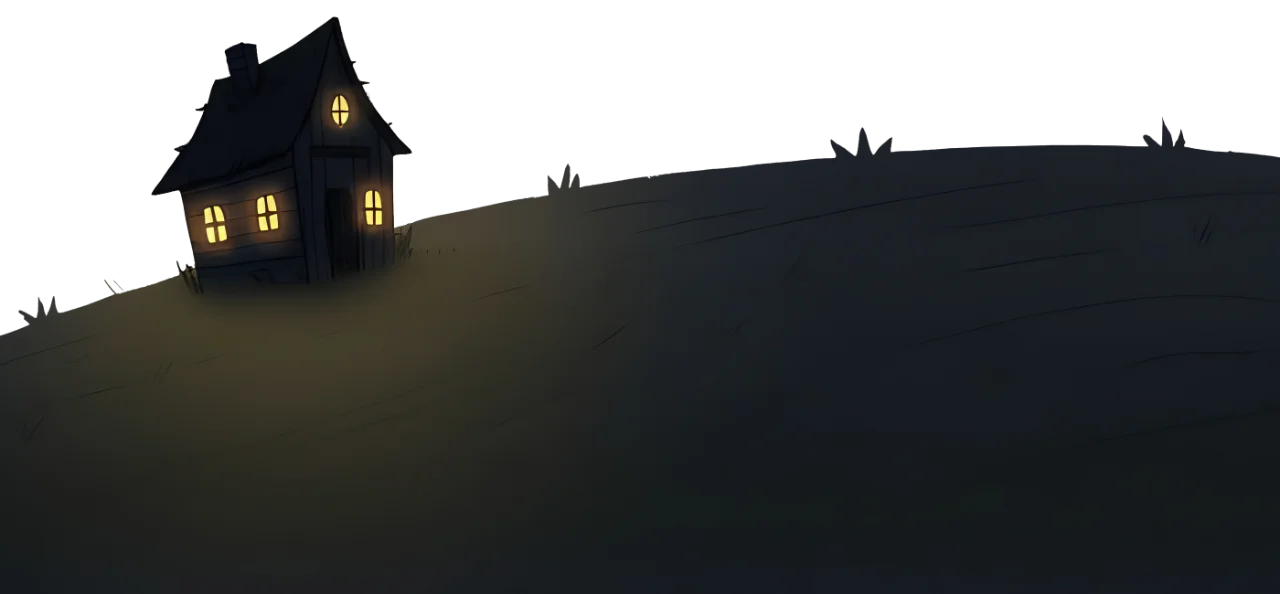
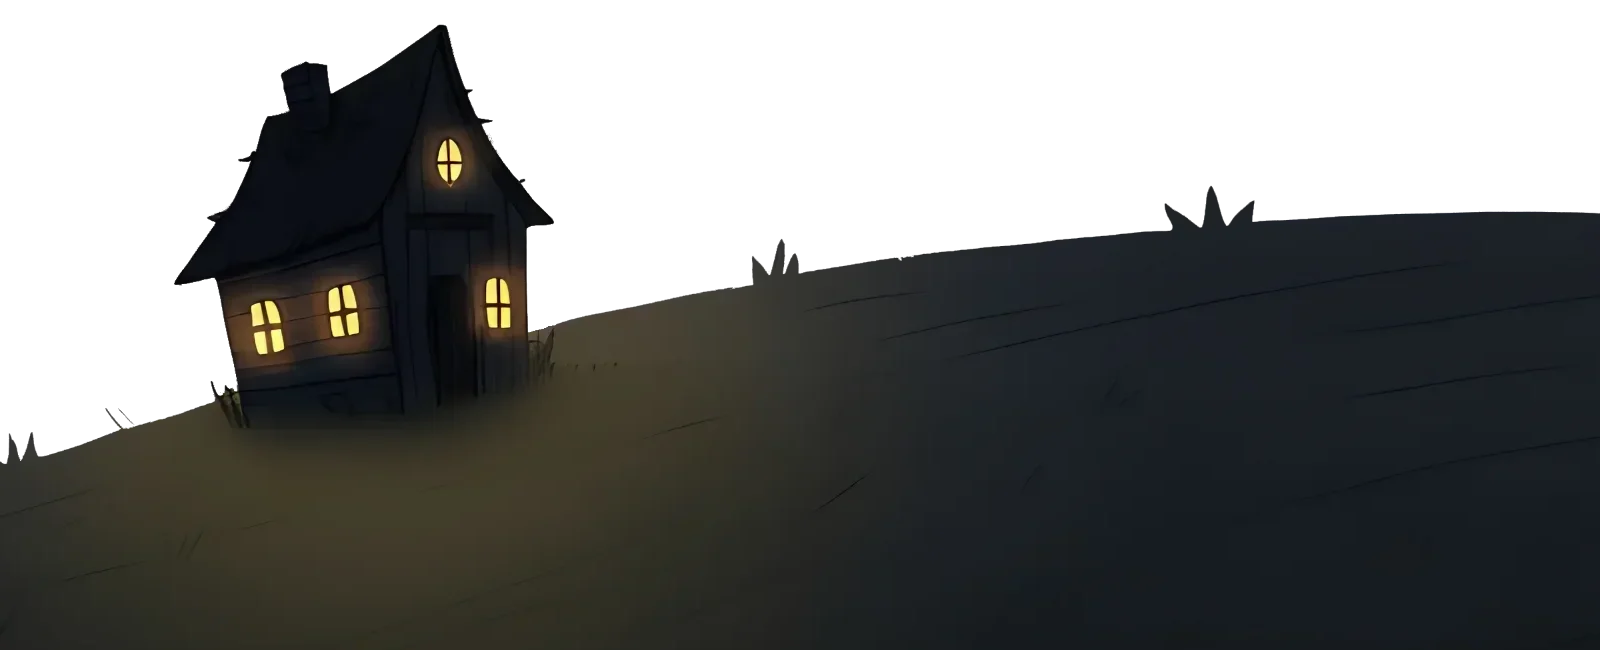
rebuild and new footer images

Changed region(s): [[0.0, 0.0303, 1.0, 0.7273], [0.0625, 0.697, 0.375, 0.9394], [0.375, 0.6667, 0.4062, 0.7273]]

diff --git a/assets/css/styles.css b/assets/css/styles.css
@@ -1,12 +1,13 @@
 /**
  * Hum Studios | Refactored Stylesheet
  *
- * Version: 9.2.0 (Corrected Dark Mode Media Queries)
- * Date: 2025-09-18
+ * Version: 9.2.9 (Code Cleanup & Final Fixes)
+ * Date: 2025-09-19
  *
  * Description:
- * This version fixes a CSS cascade bug where a rule at the end of the
- * file was incorrectly overriding the responsive dark mode footer images.
+ * This version removes a minor syntax error and a duplicate CSS variable.
+ * The responsive overrides for the footer have been reviewed and confirmed
+ * to be in the correct cascading order.
  */
 
 /* =====================================================================
@@ -20,7 +21,6 @@
   font-style: normal;
   font-display: swap;
 }
-
 @font-face {
   font-family: "Overpass";
   src: local("Overpass Italic"), local("Overpass-Italic"),
@@ -29,7 +29,6 @@
   font-style: italic;
   font-display: swap;
 }
-
 @font-face {
   font-family: "Overpass";
   src: local("Overpass Medium"), local("Overpass-Medium"),
@@ -38,7 +37,6 @@
   font-style: normal;
   font-display: swap;
 }
-
 @font-face {
   font-family: "Overpass";
   src: local("Overpass SemiBold"), local("Overpass-SemiBold"),
@@ -47,7 +45,6 @@
   font-style: normal;
   font-display: swap;
 }
-
 @font-face {
   font-family: "Atma";
   src: local("Atma Bold"), local("Atma-Bold"),
@@ -100,7 +97,6 @@
   /* Fluid Type Scale */
   --font-size-nav: clamp(1rem, 0.8vw + 0.9rem, 1.25rem);
   --font-size-h3: clamp(1.125rem, 2.5vw + 0.7rem, 1.5rem);
-  --font-size-h2: clamp(1.2rem, 4.5vw + 0.2rem, 1.7rem);
   --font-size-h1: clamp(1.2rem, 4.5vw + 0.2rem, 1.7rem);
   --font-size-hero: clamp(2.2rem, 5.5vw + 0.5rem, 3.6rem);
 
@@ -276,6 +272,7 @@ img, svg, video { max-width: 100%; height: auto; display: block; }
   padding: var(--container-padding-y) var(--container-padding-x);
   /* Make space at the bottom for the footer to be pulled into */
   padding-bottom: var(--footer-space);
+  margin-bottom: var(--space-8);
   container-type: inline-size;
 }
 body.loading .container { visibility: hidden; }
@@ -330,8 +327,8 @@ footer {
     background-color: transparent;
     background-image: var(--footer-bg-light-desktop);
     background-repeat: no-repeat;
-    background-position: center bottom;
-    background-size: 100% 100%;
+    background-position: left bottom;
+    background-size: auto 100%;
     
     margin-top: calc(-1 * var(--footer-space));
     padding-top: var(--footer-space);
@@ -343,6 +340,10 @@ footer {
     padding-bottom: var(--space-4);
 }
 
+html[data-theme="dark"] footer {
+  background-image: var(--footer-bg-dark-desktop);
+}
+
 .footer-inner {
     width: min(var(--content-max), 95%);
     margin-inline: auto;
@@ -350,7 +351,7 @@ footer {
     flex-wrap: wrap;
     align-items: center;
     justify-content: center;
-    gap: clamp(10px, 2.5vw, 18px);
+    gap: var(--space-1);
     text-align: center;
     color: var(--nav-link);
     text-shadow: 0 1px 3px rgba(0,0,0,0.4);
@@ -404,8 +405,6 @@ footer {
     width: 100%;
     text-align: center;
     font-size: 0.8125rem;
-    transform: scale(0.77);
-    transform-origin: center;
     line-height: 1.2;
     margin-top: var(--space-4);
     opacity: .8;
@@ -416,14 +415,6 @@ footer {
 body.contact-page .registered-address { display: block; }
 
 /* Responsive Overrides for Footer Images */
-@media (min-width: 1401px) {
-    footer {
-        background-image: var(--footer-bg-light-ultrawide);
-    }
-    html[data-theme="dark"] footer {
-        background-image: var(--footer-bg-dark-ultrawide);
-    }
-}
 @media (max-width: 900px) {
     footer {
         background-image: var(--footer-bg-light-tablet);
@@ -439,7 +430,39 @@ body.contact-page .registered-address { display: block; }
     html[data-theme="dark"] footer {
         background-image: var(--footer-bg-dark-mobile);
     }
+
+    /* Tighten footer content spacing on small screens */
+    .footer-inner {
+        gap: var(--space-2);
+    }
+    .footer-links {
+        gap: var(--space-2);
+    }
+    .footer-social {
+        gap: var(--space-1);
+    }
+    .footer-legal {
+        margin-top: var(--space-2);
+    }
 }
+@media (min-width: 1401px) and (max-width: 1800px) {
+    footer {
+        background-image: var(--footer-bg-light-ultrawide);
+    }
+    html[data-theme="dark"] footer {
+        background-image: var(--footer-bg-dark-ultrawide);
+    }
+}
+@media (min-width: 1801px) {
+    footer {
+        background-image: var(--footer-bg-light-ultrawide);
+        background-size: 100% 100%;
+    }
+    html[data-theme="dark"] footer {
+        background-image: var(--footer-bg-dark-ultrawide);
+    }
+}
+
 
 /* =====================================================================
    04. COMPONENTS
@@ -559,7 +582,7 @@ body.contact-page .registered-address { display: block; }
 
 /* --- Typography --- */
 h1, h2, h3 { color: var(--color-heading); font-family: var(--font-display); font-weight: 700; text-align: center; line-height: 1.2; text-wrap: balance; margin: 0; }
-h1 { font-size: var(--font-size-h1); } h2 { font-size: var(--font-size-h2); } h3 { font-size: var(--font-size-h3); }
+h1 { font-size: var(--font-size-h1); } h2 { font-size: var(--font-size-h1); } h3 { font-size: var(--font-size-h3); }
 .card p, .card ul, .card ol { max-width: var(--measure); margin-inline-start: auto; margin-inline-end: auto; line-height: 1.5; }
 @media (min-width: 48em) { body { line-height: 1.45; } .card p, .card ul, .card ol { line-height: 1.6; } }
 .card p { margin-block-end: var(--paragraph-gap); }
